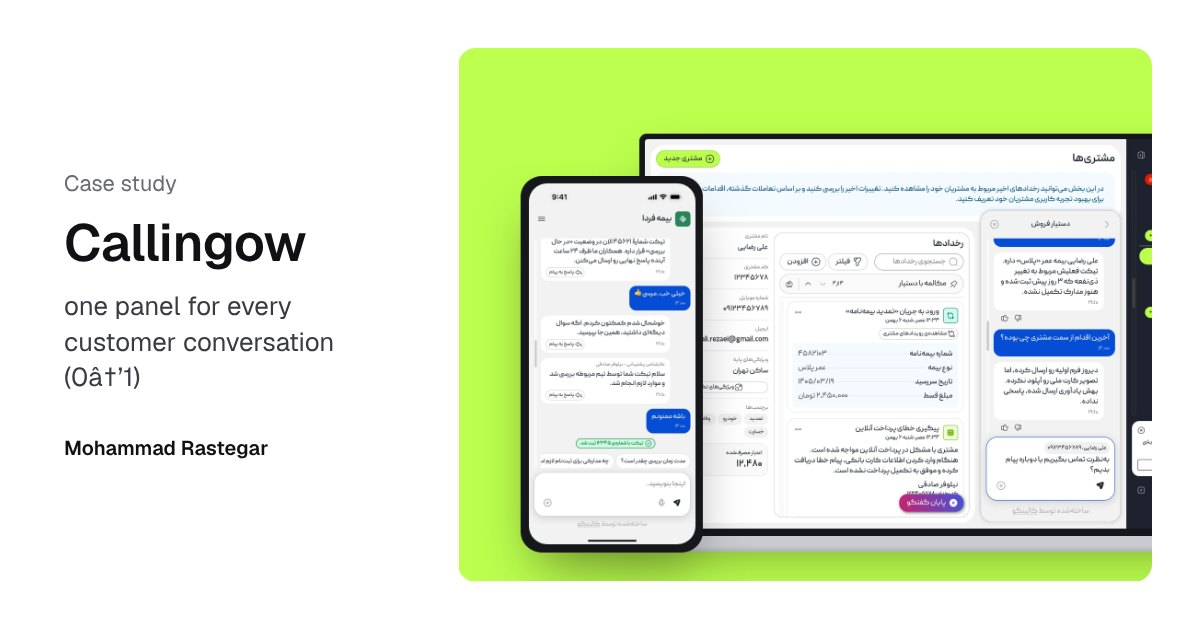
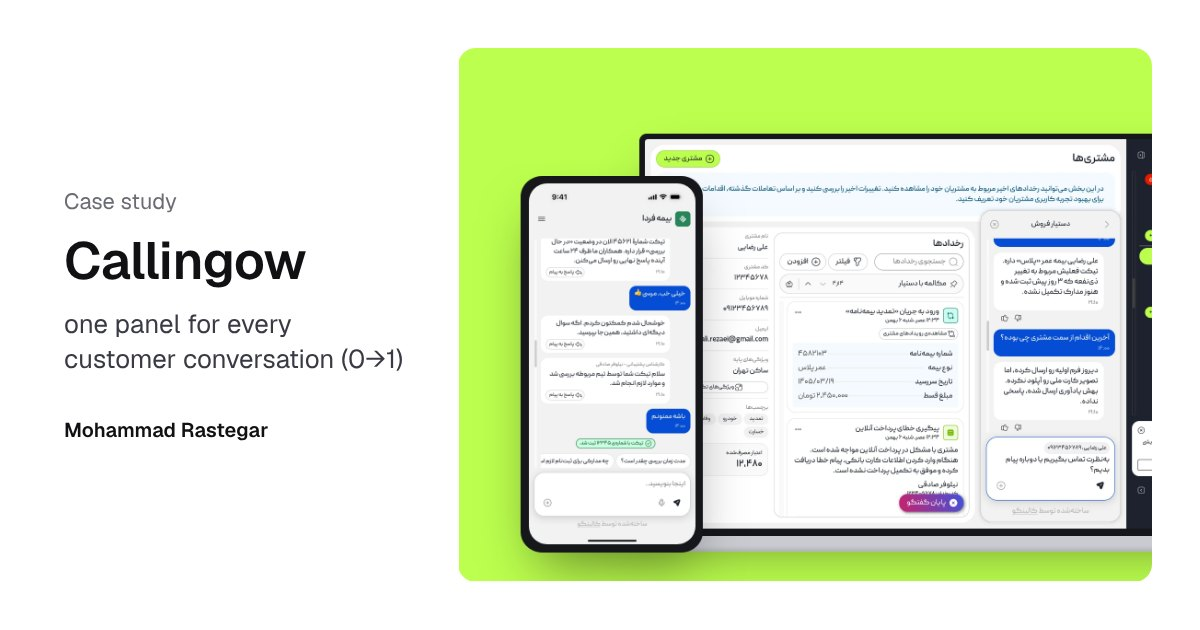
Add files via upload

Changed region(s): [[0.0308, 0.2714, 0.3392, 0.6333], [0.0308, 0.6635, 0.2158, 0.7238]]

diff --git a/parminhub.html b/parminhub.html
@@ -11,7 +11,7 @@
 <meta property="og:title" content="Parminhub — UI gallery · Mohammad Rastegar">
 <meta property="og:description" content="Parminhub helps students and researchers who are writing a thesis or a paper: consultations by phone, online or in person on lowering similarity scores, editing…">
 <meta property="og:url" content="https://rastegarzadeh.github.io/parminhub.html">
-<meta property="og:image" content="https://rastegarzadeh.github.io/og/parminhub.jpg">
+<meta property="og:image" content="https://rastegarzadeh.github.io/og/parminhub.jpg?v=2">
 <meta property="og:image:width" content="1200">
 <meta property="og:image:height" content="630">
 <meta name="twitter:card" content="summary_large_image">

diff --git a/padash.html b/padash.html
@@ -11,7 +11,7 @@
 <meta property="og:title" content="Padash — UI gallery · Mohammad Rastegar">
 <meta property="og:description" content="Padash brings a bank card and account into one app: card-to-card transfers with saved cards, account top-ups, and buying units of investment funds, with a clear…">
 <meta property="og:url" content="https://rastegarzadeh.github.io/padash.html">
-<meta property="og:image" content="https://rastegarzadeh.github.io/og/padash.jpg">
+<meta property="og:image" content="https://rastegarzadeh.github.io/og/padash.jpg?v=2">
 <meta property="og:image:width" content="1200">
 <meta property="og:image:height" content="630">
 <meta name="twitter:card" content="summary_large_image">

diff --git a/tomeo.html b/tomeo.html
@@ -11,7 +11,7 @@
 <meta property="og:title" content="Tomeo — case study · Mohammad Rastegar">
 <meta property="og:description" content="An AI assistant inside Shopify admin that writes product titles, descriptions, tags and social captions, and shows merchants which products need SEO work first.">
 <meta property="og:url" content="https://rastegarzadeh.github.io/tomeo.html">
-<meta property="og:image" content="https://rastegarzadeh.github.io/og/tomeo.jpg">
+<meta property="og:image" content="https://rastegarzadeh.github.io/og/tomeo.jpg?v=2">
 <meta property="og:image:width" content="1200">
 <meta property="og:image:height" content="630">
 <meta name="twitter:card" content="summary_large_image">

diff --git a/callingow.html b/callingow.html
@@ -11,7 +11,7 @@
 <meta property="og:title" content="Callingow — case study · Mohammad Rastegar">
 <meta property="og:description" content="A support and marketing platform that brings customer history, automation and AI assistants into a single place, on web, tablet and mobile.">
 <meta property="og:url" content="https://rastegarzadeh.github.io/callingow.html">
-<meta property="og:image" content="https://rastegarzadeh.github.io/og/callingow.jpg">
+<meta property="og:image" content="https://rastegarzadeh.github.io/og/callingow.jpg?v=2">
 <meta property="og:image:width" content="1200">
 <meta property="og:image:height" content="630">
 <meta name="twitter:card" content="summary_large_image">

diff --git a/hengam.html b/hengam.html
@@ -11,7 +11,7 @@
 <meta property="og:title" content="Hengam — UI gallery · Mohammad Rastegar">
 <meta property="og:description" content="Hengam is the time tracker we designed for our own team at Gandom. People start a timer on a task, tag it with a project and see where their week went.">
 <meta property="og:url" content="https://rastegarzadeh.github.io/hengam.html">
-<meta property="og:image" content="https://rastegarzadeh.github.io/og/hengam.jpg">
+<meta property="og:image" content="https://rastegarzadeh.github.io/og/hengam.jpg?v=2">
 <meta property="og:image:width" content="1200">
 <meta property="og:image:height" content="630">
 <meta name="twitter:card" content="summary_large_image">

diff --git a/astaane.html b/astaane.html
@@ -11,7 +11,7 @@
 <meta property="og:title" content="Astaane — case study · Mohammad Rastegar">
 <meta property="og:description" content="A buyer-first property app that replaced endless feeds and “negotiable” prices with curated matches and a clear pricing signal.">
 <meta property="og:url" content="https://rastegarzadeh.github.io/astaane.html">
-<meta property="og:image" content="https://rastegarzadeh.github.io/og/astaane.jpg">
+<meta property="og:image" content="https://rastegarzadeh.github.io/og/astaane.jpg?v=2">
 <meta property="og:image:width" content="1200">
 <meta property="og:image:height" content="630">
 <meta name="twitter:card" content="summary_large_image">

diff --git a/hydratepal.html b/hydratepal.html
@@ -11,7 +11,7 @@
 <meta property="og:title" content="HydratePal — UI gallery · Mohammad Rastegar">
 <meta property="og:description" content="HydratePal is a small iOS app we built to test how the App Store market responds to a simple utility.">
 <meta property="og:url" content="https://rastegarzadeh.github.io/hydratepal.html">
-<meta property="og:image" content="https://rastegarzadeh.github.io/og/hydratepal.jpg">
+<meta property="og:image" content="https://rastegarzadeh.github.io/og/hydratepal.jpg?v=2">
 <meta property="og:image:width" content="1200">
 <meta property="og:image:height" content="630">
 <meta name="twitter:card" content="summary_large_image">

diff --git a/index.html b/index.html
@@ -11,7 +11,7 @@
 <meta property="og:title" content="Mohammad Rastegar · Product designer">
 <meta property="og:description" content="Product designer who turns complex systems into calm, usable products. Case studies in B2B SaaS, AI products and design systems.">
 <meta property="og:url" content="https://rastegarzadeh.github.io/">
-<meta property="og:image" content="https://rastegarzadeh.github.io/og/index.jpg">
+<meta property="og:image" content="https://rastegarzadeh.github.io/og/index.jpg?v=2">
 <meta property="og:image:width" content="1200">
 <meta property="og:image:height" content="630">
 <meta name="twitter:card" content="summary_large_image">

diff --git a/landinto.html b/landinto.html
@@ -11,7 +11,7 @@
 <meta property="og:title" content="Landinto — UI gallery · Mohammad Rastegar">
 <meta property="og:description" content="Landinto lets people invest in rental homes by buying shares instead of whole properties.">
 <meta property="og:url" content="https://rastegarzadeh.github.io/landinto.html">
-<meta property="og:image" content="https://rastegarzadeh.github.io/og/landinto.jpg">
+<meta property="og:image" content="https://rastegarzadeh.github.io/og/landinto.jpg?v=2">
 <meta property="og:image:width" content="1200">
 <meta property="og:image:height" content="630">
 <meta name="twitter:card" content="summary_large_image">
